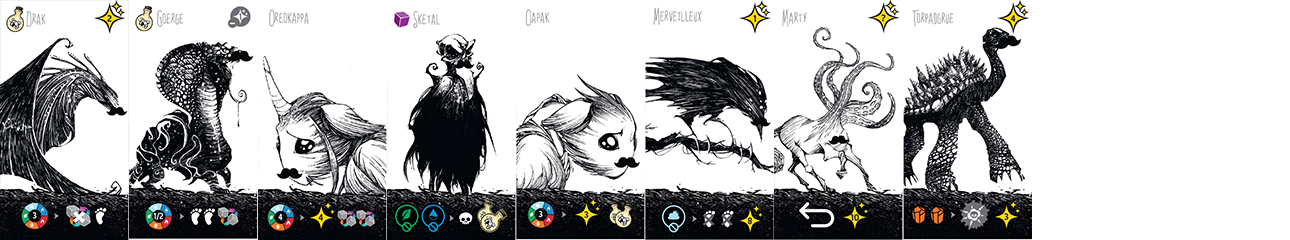
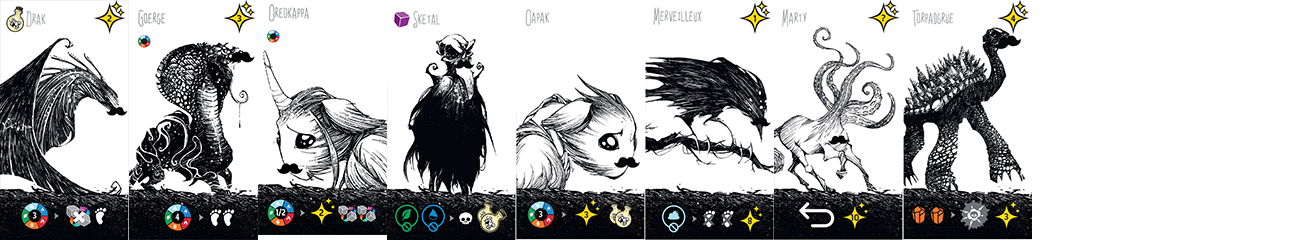
companions patch v8

Changed region(s): [[0.093, 0.0, 0.3101, 1.0]]

diff --git a/material.inc.php b/material.inc.php
@@ -120,8 +120,8 @@ $this->COMPANIONS_EXPANSION1_SETS = [
     'adds' => [
       // A
       101 => new CompanionCard('Drak', 2, new Effect([203, 203], [-41, 21]), 1),
-      102 => new CompanionCard('Goerge', -1, new Effect([201, 202], [22, 41]), 1),
-      103 => new CompanionCard('Oredkappa', -1, new Effect([204, 204], [104, 42])),
+      102 => new CompanionCard('Goerge', 3, new Effect([204, 204], [22])),
+      103 => new CompanionCard('Oreokappa', -1, new Effect([201, 202], [102, 42])),
       104 => new CompanionCard('Sketal', -1, new Effect([-1, -2], [33, 12]), 0, 0, true, 6),
       // B
       105 => new CompanionCard('Oapak', 0, new Effect([203, 203], [103, 12])),
@@ -162,13 +162,13 @@ $this->COMPANIONS_EXPANSION1_SETS = [
     'adds' => [
       // A
       301 => new CompanionCard('Lovd', -3, new Effect([3, 4], [103, 12])),
-      302 => new CompanionCard('Zzibela', 0, new Effect([1, -3], [102, 21]), 2),
+      302 => new CompanionCard('Zzibela', 0, new Effect([1, -3], [22]), 1),
       303 => new CompanionCard('Biki', 6, new Effect([-5], [33, -42])),
-      304 => new CompanionCard('Gok\'Xar', 0, new Effect([3, 5], [41, 21])),
+      304 => new CompanionCard('Gok\'Xar', 0, new Effect([3, 5], [-21, 104])),
       // B
-      305 => new CompanionCard('Baby Snarexe', 0, new Effect([3, 1], [33, 108])),
-      306 => new CompanionCard('Snako', 3, new Effect([5, 2], [11, 41]), 1),
-      307 => new CompanionCard('Lilipili', 1, new Effect([1, 1], [42]), 0, 1),
+      305 => new CompanionCard('Baby Snarexe', 0, new Effect([3, 1], [-12, 33, 107])),
+      306 => new CompanionCard('Snako', 2, new Effect([5, 4], [-41, 12]), 3),
+      307 => new CompanionCard('Lilipili', 1, new Effect([5, 2], [42, 102]), 0, 1),
       308 => new CompanionCard('Pervi', 3, new Effect([2, 2], [22, -42])),
     ],
     'removes' => [
